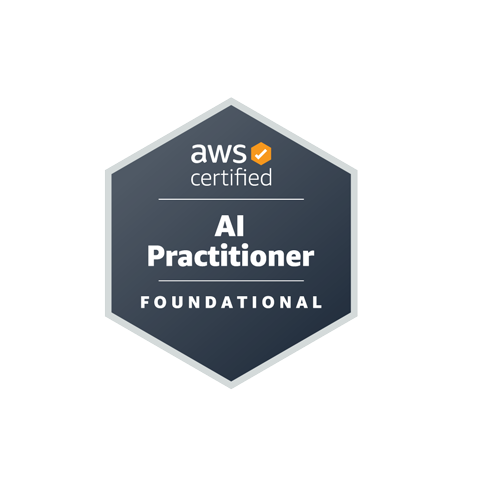
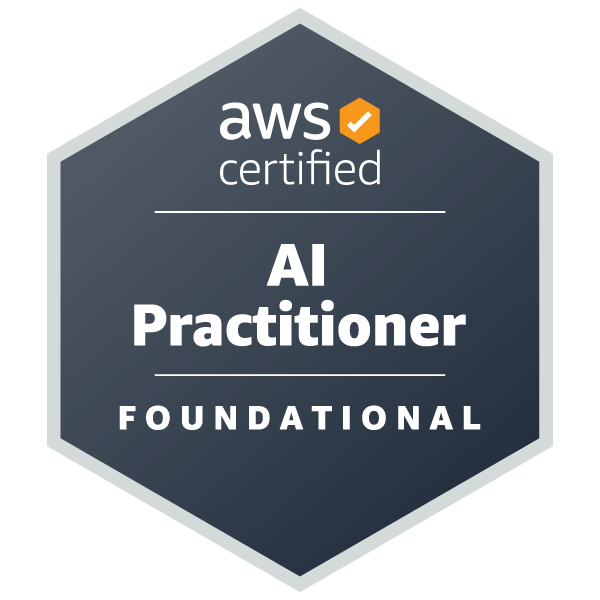
Use official transparent AWS practitioner badge assets
Replace the opaque marketing exports with unchanged600px RGBA originals from AWS's Credly issuer pages. Retain the80px display size, credential text and responsive layout; update source dimensions, provenance and transparency verification.

diff --git a/app/about/page.tsx b/app/about/page.tsx
@@ -42,15 +42,15 @@ const certificationMarks = [
   {
     name: "AWS Certified Cloud Practitioner",
     src: "/badges/aws-certified-cloud-practitioner.png",
-    width: 500,
-    height: 500,
+    width: 600,
+    height: 600,
     widthClass: "w-20",
   },
   {
     name: "AWS Certified AI Practitioner",
     src: "/badges/aws-certified-ai-practitioner.png",
-    width: 500,
-    height: 500,
+    width: 600,
+    height: 600,
     widthClass: "w-20",
   },
 ] as const;

diff --git a/public/badges/README.md b/public/badges/README.md
@@ -1,19 +1,21 @@
 # AWS certification badges
 
-Official AWS artwork for the two practitioner credentials already named in the
-public About record. Downloaded from the corresponding AWS certification pages
-and visually inspected on October 30, 2026.
+Official AWS-issued artwork for the two practitioner credentials already named
+in the public About record. Downloaded from the original image URLs on AWS's
+Credly badge pages and visually inspected on October 30, 2026. Both pages name
+Amazon Web Services Training and Certification as the issuer.
 
-| File | Certification information | Original asset |
+| File | AWS-issued badge page | Original asset |
 | --- | --- | --- |
-| `aws-certified-cloud-practitioner.png` | https://aws.amazon.com/certification/certified-cloud-practitioner/ | https://d1.awsstatic.com/onedam/marketing-channels/website/aws/en_US/certification/approved/images/certification-badges/clf-badge-resized.af6428258905cc1838aa186fb6c543c3a026694c.png |
-| `aws-certified-ai-practitioner.png` | https://aws.amazon.com/certification/certified-ai-practitioner/ | https://d1.awsstatic.com/onedam/marketing-channels/website/aws/en_US/certification/approved/images/certification-badges/aif-badge-resized.fba05feb8ac8ac2c0c4d9201b4f9bbf8db385b9e.png |
+| `aws-certified-cloud-practitioner.png` | https://www.credly.com/org/amazon-web-services/badge/aws-certified-cloud-practitioner | https://images.credly.com/images/00634f82-b07f-4bbd-a6bb-53de397fc3a6/image.png |
+| `aws-certified-ai-practitioner.png` | https://www.credly.com/org/amazon-web-services/badge/aws-certified-ai-practitioner | https://images.credly.com/images/4d4693bb-530e-4bca-9327-de07f3aa2348/image.png |
 
 ## Display and claims
 
-- Both files are the original 500 × 500 PNGs, including their white background
-  and clear space. Preserve their artwork, colors, proportions, and whitespace;
-  do not redraw, crop, recolor, overlay text, or combine them with another mark.
+- Both files are the original 600 × 600 RGBA PNGs with true alpha transparency
+  around the badge. Source files were copied unchanged; each contains 137,632
+  fully transparent pixels. Preserve artwork, colors, proportions, and clear
+  space; do not redraw, crop, recolor, overlay text, or combine marks.
 - About serves the files locally at 80px square beside readable credential text.
   Empty alt text and an aria-hidden wrapper prevent duplicate announcements.
   Images add no link or keyboard stop. Credential rows stack on phones and use
@@ -23,7 +25,7 @@ and visually inspected on October 30, 2026.
   ID, personal verification URL, or claim of AWS endorsement is added.
 - The existing public credential record and the owner's request establish the
   display scope. Keep certification claims current. Personal verification would
-  require the owner's actual Credly credential URL; the information pages above
+  require the owner's actual Credly credential URL; the issuer badge pages above
   are not personal verification links.
 - AWS owns the marks; the repository's source license does not grant rights to
   them. Follow [AWS Brand Usage and Guidelines](https://aws.amazon.com/certification/policies/general-policies/)
@@ -31,5 +33,5 @@ and visually inspected on October 30, 2026.
 
 ## Source checksums
 
[4 lines of base64/hex data omitted]

diff --git a/docs/design/component-adoption.md b/docs/design/component-adoption.md
@@ -371,7 +371,7 @@ This is a bounded refinement in PR #230. Browser coverage checks contextual brea
 ## AWS practitioner certification badges (proposed, 2026-10-30)
 
 - Owner/destination: portfolio maintainer, `/about` education. Extend the existing name-matched local-image pattern for AWS Certified Cloud Practitioner and AWS Certified AI Practitioner. Split the existing combined credential line into two editable education entries; keep the current string-array schema and school sizing.
-- Assets: original official 500px PNGs from the corresponding AWS certification pages, served locally without cropping, recoloring, or redrawing. Source links, checksums, AWS mark ownership, and display boundaries are in `public/badges/README.md`. No new package, account integration, personal verification URL, issue/expiry date, or Early Adopter designation.
-- Composition: each 80px image sits beside readable 14px credential text beneath the schools. The existing grid gives the badges two columns from 640px and stacked rows on phones. Keep the source white background and clear space. The certifications remain identified as Foundational.
+- Assets: original official 600px RGBA PNGs from AWS-issued Credly badge pages, replacing the opaque marketing exports at the owner's request. True alpha transparency lets the page surface show around each badge; source bytes are unchanged, without cropping, recoloring, redrawing, or CSS blending. Source links, checksums, AWS mark ownership, and display boundaries are in `public/badges/README.md`. No new package, account integration, personal verification URL, issue/expiry date, or Early Adopter designation.
+- Composition: each 80px image sits beside readable 14px credential text beneath the schools. The existing grid gives the badges two columns from 640px and stacked rows on phones. Preserve source transparency and clear space. The certifications remain identified as Foundational.
 - Accessibility/state: empty alt text and an aria-hidden image wrapper avoid repeated announcements; the visible credential names carry the meaning. No new links, focus targets, motion, or asynchronous interaction. Other learning entries retain their text fallback.
-- Verification: existing About editorial validation plus current-head CI and the About viewport/motion matrix. Inspect actual badge loading, dimensions, adjacent text, and overflow in the preview. Manual device/zoom/screen-reader checks remain separate. Tier 1 scoped presentation refinement; no new tracking issue. Rollback removes the two badge mappings/assets and restores the prior combined credential line.
+- Verification: downloaded source files have RGBA mode, alpha range 0–255, and transparent outer corners. Existing About editorial validation plus current-head CI and the About viewport/motion matrix cover the page. Inspect actual badge loading, transparent edges against the page surface, dimensions, adjacent text, and overflow in the preview. Manual device/zoom/screen-reader checks remain separate. Tier 1 scoped presentation refinement; no new tracking issue. Rollback removes the two badge mappings/assets and restores the prior combined credential line.
